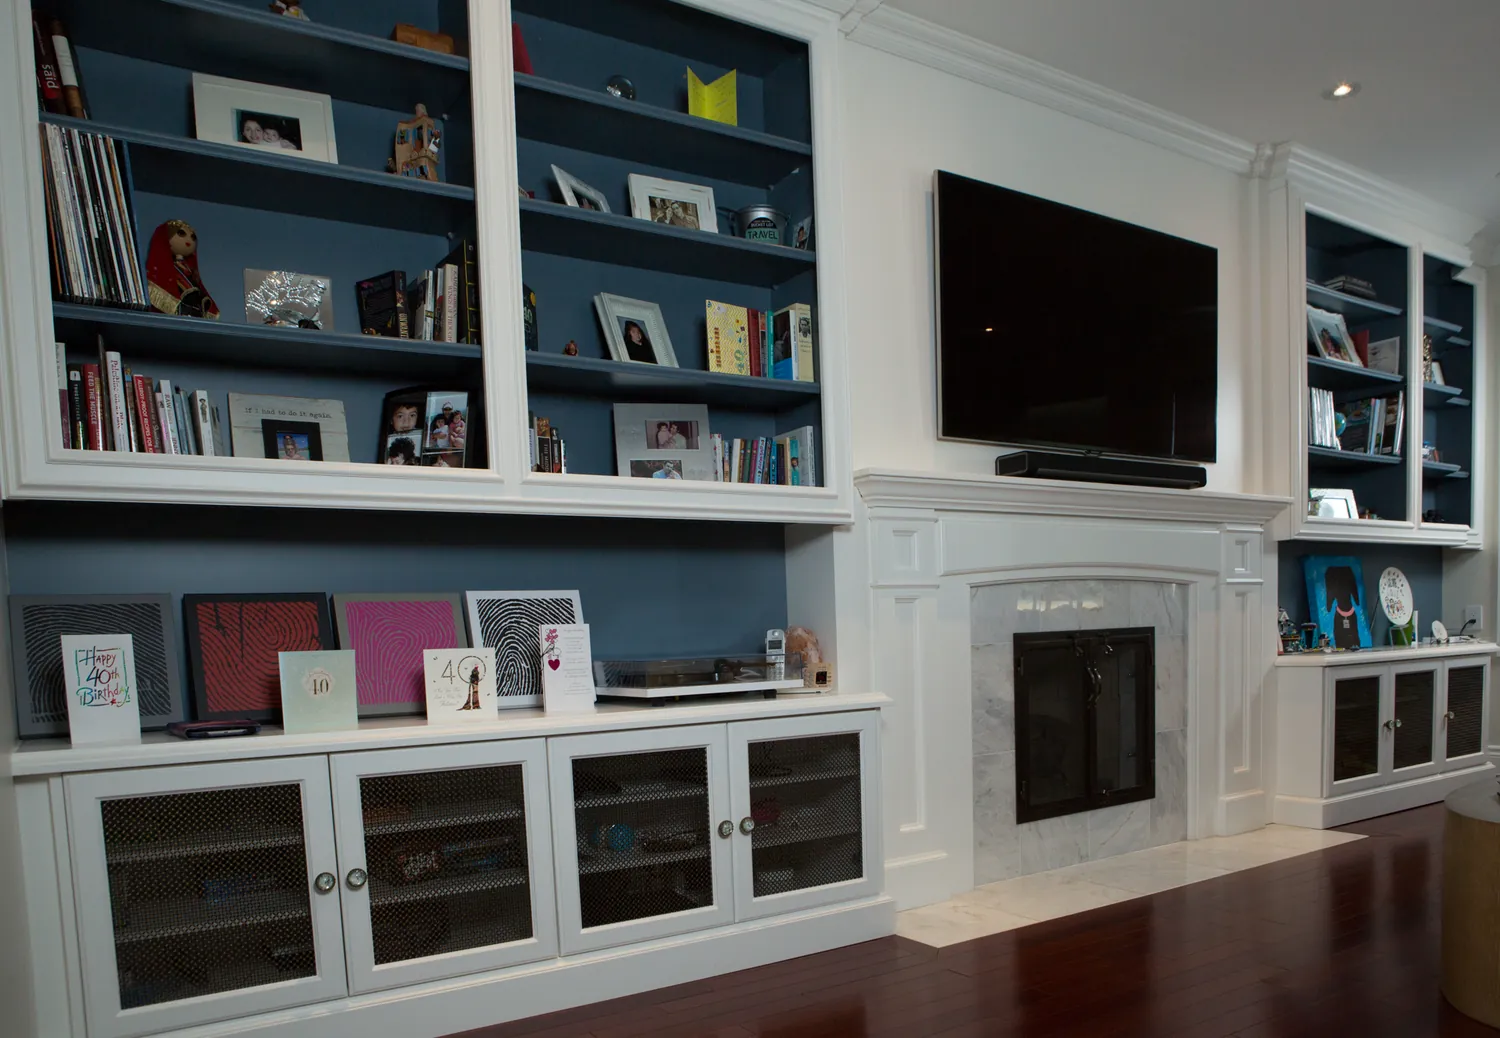
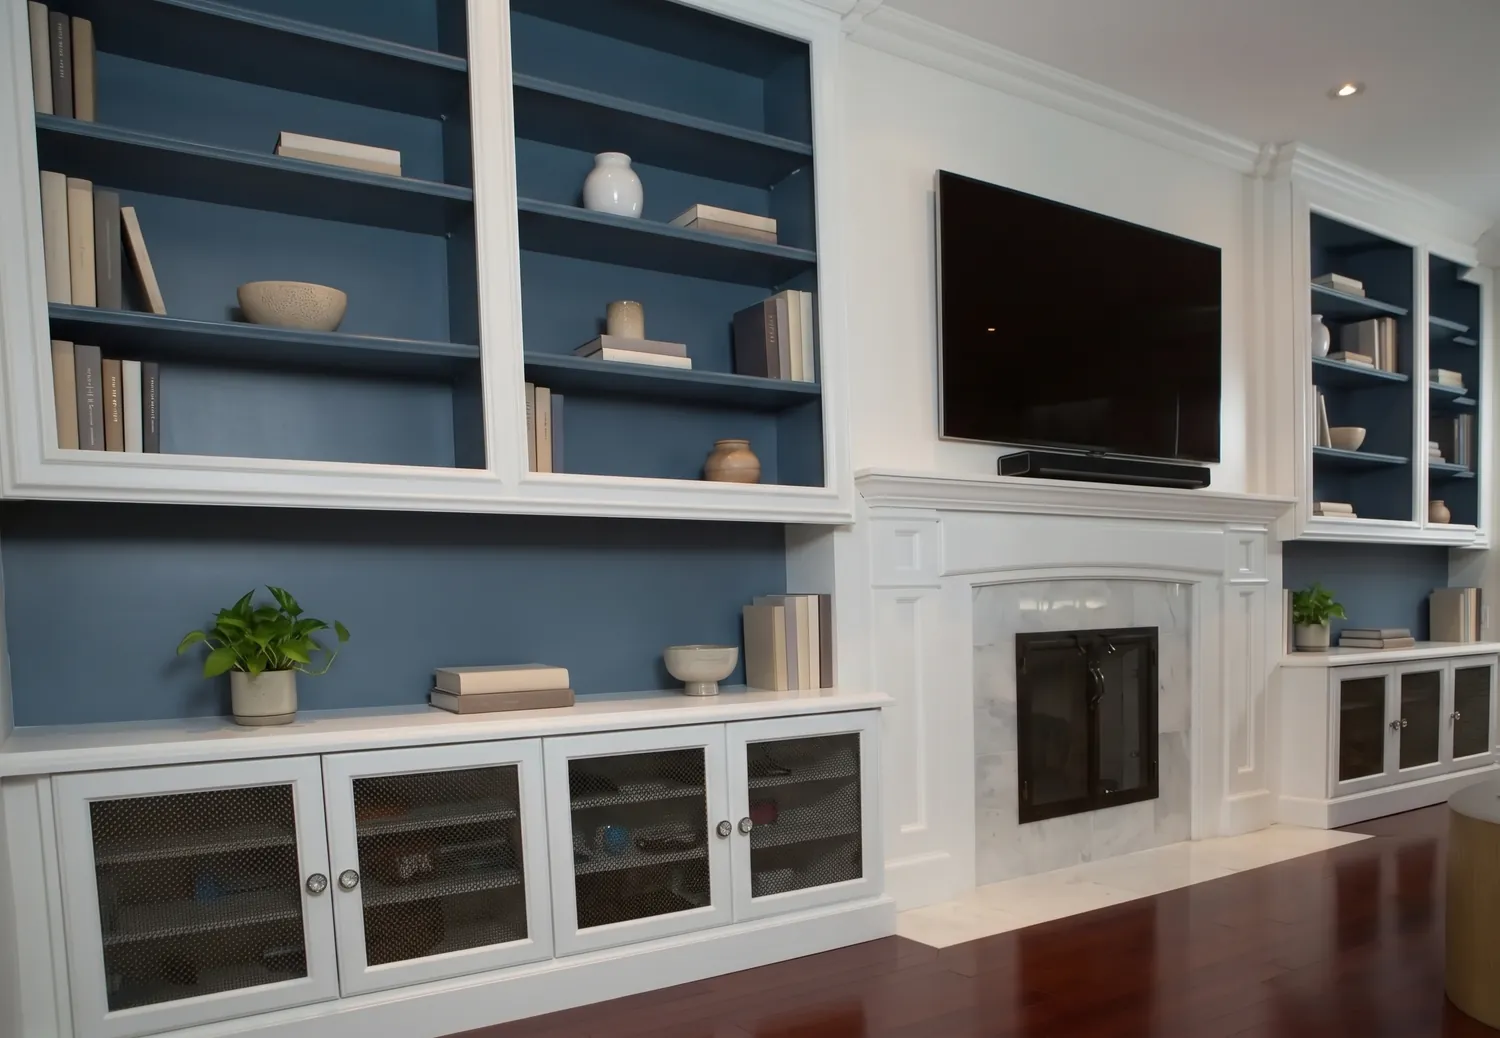
Restyle the library wall and dressing room photos; redraw the library sheets
AI edits of the client's own photographs that change only the contents
(personal items replaced with a few books and ceramics, fewer clothes).
Cabinetry is untouched. The two library line drawings are regenerated from
the restyled photos so the cut still lines up.

diff --git a/src/data/projects.ts b/src/data/projects.ts
@@ -43,6 +43,9 @@ export const projects: Project[] = [
     ],
   },
   {
+    // These three photographs are restyled: an AI edit of the client's own photos that changes only what sits on
+    // the shelves (family photos and toys replaced with a few books and ceramics). The cabinetry is untouched.
+    // Originals: work/photos-original/. CONFIRM the client is happy to show the restyled versions.
     no: "A-104", title: "Library wall", type: "residential", tags: "Residential · Built-ins",
     desc: "Painted built-ins either side of a fireplace, with coloured backs, glazed lower doors and a matching unit on the return wall.",
     shots: [

diff --git a/README.md b/README.md
@@ -5,6 +5,7 @@ Five-page site for selectionsdesign.com: a static [Astro](https://astro.build) p
 - `src/components/motion/DrawnFilm.astro` + `Sheet.astro` + `drawn-film.js`: the full-viewport "drawing sheet" sequence (home, Work and Studio heroes). Live layers, no frame sequences: each sheet is a photograph and an ink drawing made from it.
 - `src/components/motion/ProcessDrawing.astro`: the pinned four-step shop drawing on the Millwork page (hand-authored SVG).
 - `tools/draw.sh <photo> <slug> <width>`: makes the registered photo + drawing pair in `public/assets/img/`.
+- `tools/restyle.sh <generated.png> <slug>`: puts an AI-restyled photo (same room and millwork, tidier contents) back at the original's exact size and keeps the original in `work/photos-original/`.
 - `tools/redraw.sh <generated.png> <slug>`: swaps a traced drawing for a cleaner one generated with Nano Banana 2 in edit mode from the same photo (`tools/kie.py image --ar 3:2 --ref <photo>`; prompt and spend are logged in `work/gen/kie.log`). The generated drawings stay registered with the photo; `kie.py` needs `requests` (`work/.venv`).
 - `src/styles/selections.css`: the theme, loaded after the template stylesheet. `src/data/projects.ts` and `clients.ts`: Work page and client schedule.
 - `ScrollFilm`, `ScrollScrub` and `HeroLoop` in `src/components/motion/` are unused here.
